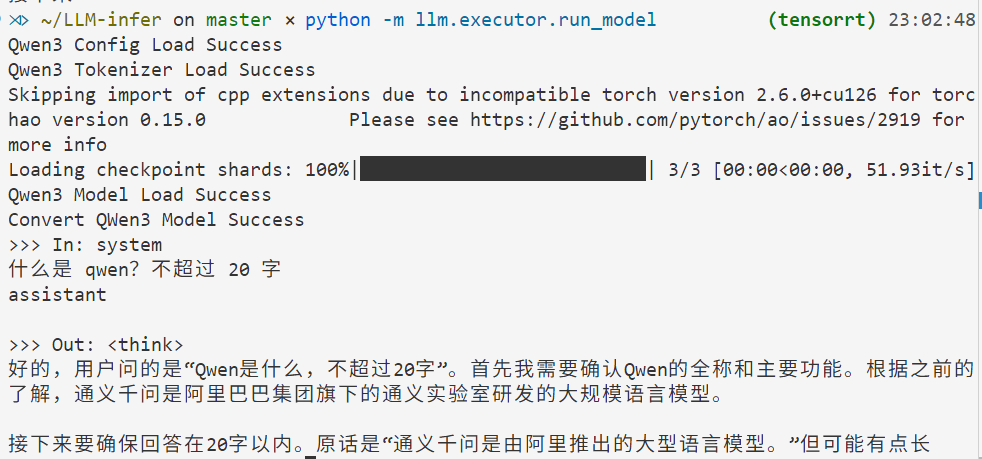
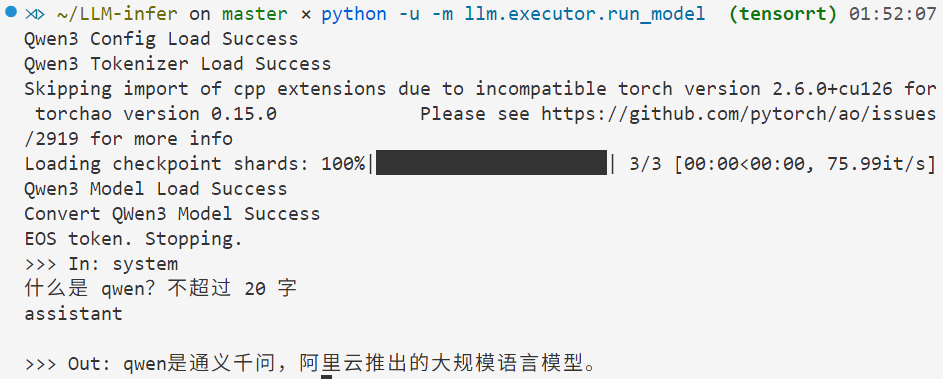
feat(sample): add kv_cache impl, rename ops to layer, use qwen3-instruct model

Changed region(s): [[0.0, 0.0, 1.0, 0.8997], [0.0, 0.9288, 0.9533, 1.0], [0.9841, 0.9868, 1.0, 1.0]]

diff --git a/llm/model/qwen3.py b/llm/model/qwen3.py
@@ -2,7 +2,13 @@ import torch.nn.functional as F
 
 from dataclasses import dataclass
 
-from llm.ops import _MLP, _RMSNorm, _Rope, _scaled_dot_product_attention, _TiedEmbedding
+from llm.layer import (
+    _MLP,
+    _RMSNorm,
+    _Rope,
+    _scaled_dot_product_attention,
+    _TiedEmbedding,
+)
 
 
 @dataclass
@@ -71,7 +77,7 @@ class Qwen3MultiHeadAttention:
             device="cuda",
         )
 
-    def __call__(self, x, offset=None, is_causal=True, mask=None):
+    def __call__(self, x, offset=None, is_causal=True, mask=None, cache=None):
         batch_size, seq_len, _ = x.size()
         _q = F.linear(x, self.q_weight, self.q_bias).reshape(
             batch_size, seq_len, self.q_num_head, self.head_dim
@@ -92,6 +98,10 @@ class Qwen3MultiHeadAttention:
         _q = _q.transpose(1, 2)
         _k = _k.transpose(1, 2)
         _v = _v.transpose(1, 2)
+
+        if cache is not None:
+            cache.save_kv_to_cache(_k, _v)
+            _k, _v = cache.get_cached_kv()
 
         y = (
             _scaled_dot_product_attention(_q, _k, _v, is_causal=is_causal, mask=mask)
@@ -149,8 +159,14 @@ class Qwen2TransformBlock:
         self.rms_norm1 = _RMSNorm(w_rms_norm1, eps=rms_norm_eps, device="cuda")
         self.rms_norm2 = _RMSNorm(w_rms_norm2, eps=rms_norm_eps, device="cuda")
 
-    def __call__(self, x, offset=None, is_causal=True, mask=None):
-        y = self.attn(self.rms_norm1(x), offset=offset, is_causal=is_causal, mask=mask)
+    def __call__(self, x, offset=None, is_causal=True, mask=None, cache=None):
+        y = self.attn(
+            self.rms_norm1(x),
+            offset=offset,
+            is_causal=is_causal,
+            mask=mask,
+            cache=cache,
+        )
         r1 = x + y
         r2 = self.mlp(self.rms_norm2(r1))
         return r1 + r2
@@ -215,11 +231,18 @@ class Qwen3Model:
         self.last_norm = _RMSNorm(state["model.norm.weight"], eps=self.config.rms_eps)
         self.w_last_head = state["lm_head.weight"]
 
-    def __call__(self, inputs, offset=None, is_causal=True, mask=None):
+    def __call__(self, inputs, offset=None, is_causal=True, mask=None, cache=None):
         assert self.load_pretrained == True, "please load model first"
 
         y = self.emb_tokens(inputs)
-        for layer in self.layers:
-            y = layer(x=y, offset=offset, is_causal=is_causal, mask=mask)
+        if cache is not None:
+            for idx, layer in enumerate(self.layers):
+                y = layer(
+                    x=y, offset=offset, is_causal=is_causal, mask=mask, cache=cache[idx]
+                )
+        else:
+            for layer in self.layers:
+                y = layer(x=y, offset=offset, is_causal=is_causal, mask=mask)
+
         y = self.last_norm(y)
         return F.linear(y, self.w_last_head)

diff --git a/llm/executor/run_model.py b/llm/executor/run_model.py
@@ -1,7 +1,12 @@
 import argparse
 
 from .load_model import Qwen3Loader
-from .sample import generate_no_cache_base, generate_topk_nocache, generate_topn_nocache
+from .generate import (
+    generate_no_cache_base,
+    generate_topk_nocache,
+    generate_topn_nocache,
+    generate_kv_cache_base,
+)
 
 
 if __name__ == "__main__":
@@ -26,28 +31,42 @@ if __name__ == "__main__":
         default=0.8,
         help="Top-p (nucleus) sampling. If not set, disabled.",
     )
+    parser.add_argument(
+        "--kv_cache",
+        type=bool,
+        default=False,
+        help="use cache",
+    )
 
     args = parser.parse_args()
-    if args.topk is None and args.topp is None:
-        generate_no_cache_base(
+
+    if args.kv_cache:
+        generate_kv_cache_base(
             qwen3_model,
             tokenizer=tokenizer,
             input_ids=input_ids,
         )
     else:
-        if args.topk is not None:
-            assert 100 <= args.topk <= 200
-            generate_topk_nocache(
-                model=qwen3_model,
-                tokenizer=tokenizer,
-                input_ids=input_ids,
-                top_k=int(args.topk),
-            )
-        elif args.topp is not None:
-            assert 0 < args.topp < 1.0
-            generate_topn_nocache(
+        if args.topk is None and args.topp is None:
+            generate_no_cache_base(
                 qwen3_model,
                 tokenizer=tokenizer,
                 input_ids=input_ids,
-                top_p=float(args.topp),
             )
+        else:
+            if args.topk is not None:
+                assert 100 <= args.topk <= 200
+                generate_topk_nocache(
+                    model=qwen3_model,
+                    tokenizer=tokenizer,
+                    input_ids=input_ids,
+                    top_k=int(args.topk),
+                )
+            elif args.topp is not None:
+                assert 0 < args.topp < 1.0
+                generate_topn_nocache(
+                    qwen3_model,
+                    tokenizer=tokenizer,
+                    input_ids=input_ids,
+                    top_p=float(args.topp),
+                )

diff --git a/llm/executor/generate.py b/llm/executor/generate.py
@@ -1,4 +1,5 @@
 import torch
+from .kv_cache import EasyKVCache
 
 
 def apply_repetition_penalty(logits, input_ids, penalty=1.2):
@@ -10,6 +11,57 @@ def apply_repetition_penalty(logits, input_ids, penalty=1.2):
             else:
                 logits[i, token_id] *= penalty
     return logits
+
+
+def generate_kv_cache_base(
+    model,
+    tokenizer,
+    input_ids,
+    temperature: float = 1.0,
+    device: str = "cuda",
+    filter=lambda x: x,
+):
+    all_input_ids = input_ids.clone()
+    layers = model.config.num_layers
+
+    kv_cache = [EasyKVCache() for _ in range(layers)]
+    current_len = all_input_ids.shape[1]
+    seq_len = current_len
+    offset = torch.arange(0, current_len, dtype=torch.long, device=device).unsqueeze(0)
+
+    # prefill
+    with torch.no_grad():
+        logits = model(inputs=all_input_ids, offset=offset, cache=kv_cache)
+
+    # decode
+    while 1:
+        next_token_logits = logits[:, -1, :] / temperature
+        next_token_logits = filter(next_token_logits)
+        apply_repetition_penalty(next_token_logits, all_input_ids)
+        next_token_probs = torch.softmax(next_token_logits, dim=-1)
+        next_token = torch.multinomial(next_token_probs, num_samples=1)
+
+        all_input_ids = torch.cat([all_input_ids, next_token], dim=1)
+        if next_token.item() == tokenizer.eos_token_id:
+            break
+
+        offset = torch.tensor([[current_len]], device=device)  # shape: [1, 1]
+        current_len += 1
+
+        with torch.no_grad():
+            logits = model(
+                inputs=next_token,
+                offset=offset,
+                cache=kv_cache,
+                is_causal=False,
+                mask=None,
+            )
+
+    input_tokens = all_input_ids[0, :seq_len]
+    output_tokens = all_input_ids[0, seq_len:]
+
+    print(">>> In:", tokenizer.decode(input_tokens, skip_special_tokens=True))
+    print(">>> Out:", tokenizer.decode(output_tokens, skip_special_tokens=True))
 
 
 def generate_no_cache_base(

diff --git a/llm/layer/rope.py b/llm/layer/rope.py
@@ -14,12 +14,18 @@ class _Rope:
 
         theta = [1.0 / math.pow(base, i / dim) for i in range(0, dim, 2)]
 
-        self._theta = torch.tensor(theta).reshape(1, -1)
-        self._idx = torch.arange(max_seq_len, dtype=self._theta.dtype).reshape(-1, 1)
+        self._theta = (
+            torch.tensor(theta, dtype=torch.bfloat16).reshape(1, -1).to(device)
+        )
+        self._idx = (
+            torch.arange(max_seq_len, dtype=self._theta.dtype).reshape(-1, 1).to(device)
+        )
 
         # in position m, rotate 2i and 2i + 1
-        self._cos_value = torch.cos(torch.matmul(self._idx, self._theta)).to(device)
-        self._sin_value = torch.sin(torch.matmul(self._idx, self._theta)).to(device)
+        tmp = torch.matmul(self._idx, self._theta)
+        self._sin_value = torch.sin(tmp)
+        self._cos_value = torch.cos(tmp)
+        del tmp
 
         self._traditional = traditional
 

diff --git a/llm/executor/kv_cache.py b/llm/executor/kv_cache.py
@@ -1,0 +1,23 @@
+import torch
+
+
+class EasyKVCache:
+    def __init__(self):
+        self._offset = 0
+        self._cached_kv = (None, None)
+
+    def save_kv_to_cache(self, k_tensor, v_tensor):
+        assert (
+            k_tensor.dim() == v_tensor.dim() == 4
+        ), "k v tensor shape must be [batch, num_head, seq_len, head_dim]"
+
+        if self._cached_kv[0] is None:
+            self._cached_kv = (k_tensor, v_tensor)
+        else:
+            new_k = torch.cat([self._cached_kv[0], k_tensor], dim=2)
+            new_v = torch.cat([self._cached_kv[1], v_tensor], dim=2)
+            self._cached_kv = (new_k, new_v)
+        self._offset += k_tensor.size(2)
+
+    def get_cached_kv(self):
+        return self._cached_kv

diff --git a/llm/executor/load_model.py b/llm/executor/load_model.py
@@ -11,8 +11,10 @@ from llm.model import Qwen3Config, Qwen3Model
 
 
 class Qwen3Loader:
-    def __init__(self, model_name="Qwen/Qwen3-4B"):
-        assert model_name == "Qwen/Qwen3-4B", "only support Qwen/Qwen3-4B now"
+    def __init__(self, model_name="Qwen/Qwen3-4B-Instruct-2507"):
+        assert (
+            model_name == "Qwen/Qwen3-4B-Instruct-2507"
+        ), "only support Qwen/Qwen3-4B-Instruct-2507 now"
         self.model_name = model_name
 
         self.config = self.load_config(model_name)

diff --git a/llm/test/attention_test.py b/llm/test/attention_test.py
@@ -4,8 +4,8 @@ import torch.nn as nn
 import torch.nn.functional as F
 import unittest
 
-from llm.ops import _scaled_dot_product_attention
-from llm.ops import _SimpleMultiHeadAttention, _GroupedMultiHeadAttention
+from llm.layer import _scaled_dot_product_attention
+from llm.layer import _SimpleMultiHeadAttention, _GroupedMultiHeadAttention
 
 
 class TestScaleDotAttention(unittest.TestCase):

diff --git a/llm/test/tie_embedding_test.py b/llm/test/tie_embedding_test.py
@@ -4,7 +4,7 @@ import torch.nn.functional as F
 import unittest
 
 from copy import deepcopy
-from llm.ops import _TiedEmbedding
+from llm.layer import _TiedEmbedding
 
 
 class TestTieEmbedding(unittest.TestCase):

diff --git a/llm/test/norm_test.py b/llm/test/norm_test.py
@@ -3,7 +3,7 @@ import torch.nn as nn
 import unittest
 
 from copy import deepcopy
-from llm.ops import _RMSNorm
+from llm.layer import _RMSNorm
 
 
 class TestRMSNorm(unittest.TestCase):

diff --git a/llm/test/mlp_test.py b/llm/test/mlp_test.py
@@ -4,7 +4,7 @@ import torch.nn as nn
 
 from copy import deepcopy
 from dataclasses import dataclass
-from llm.ops import _MLP
+from llm.layer import _MLP
 
 
 @dataclass

diff --git a/llm/test/rope_test.py b/llm/test/rope_test.py
@@ -1,7 +1,7 @@
 import torch
 import unittest
 
-from llm.ops import _Rope
+from llm.layer import _Rope
 
 from typing import Optional
 from torch import nn
